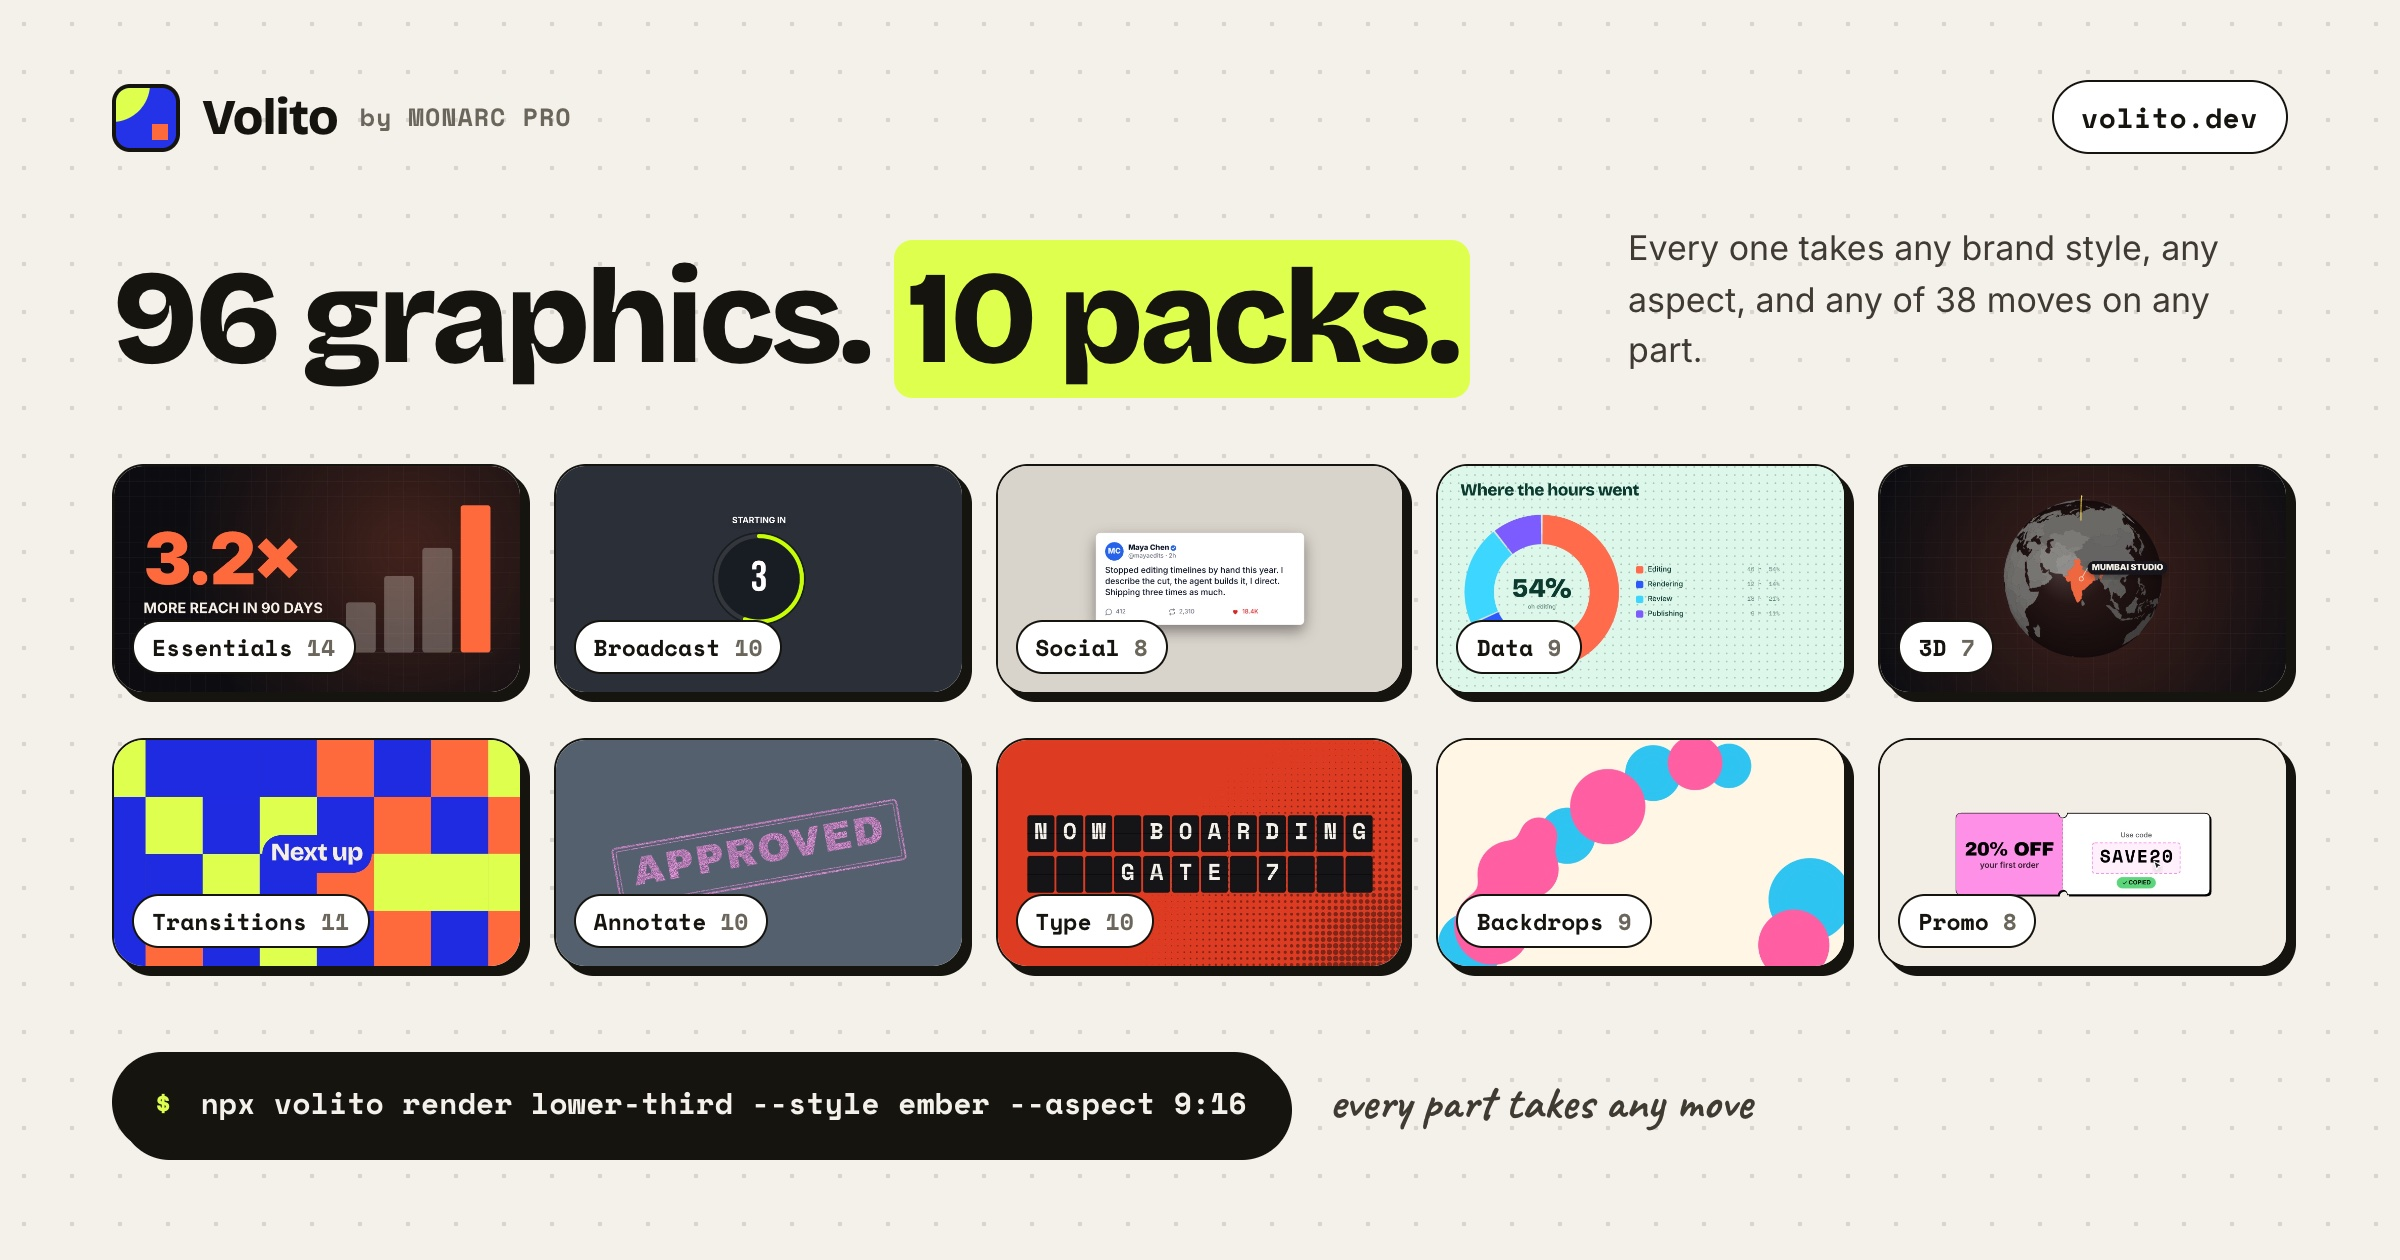
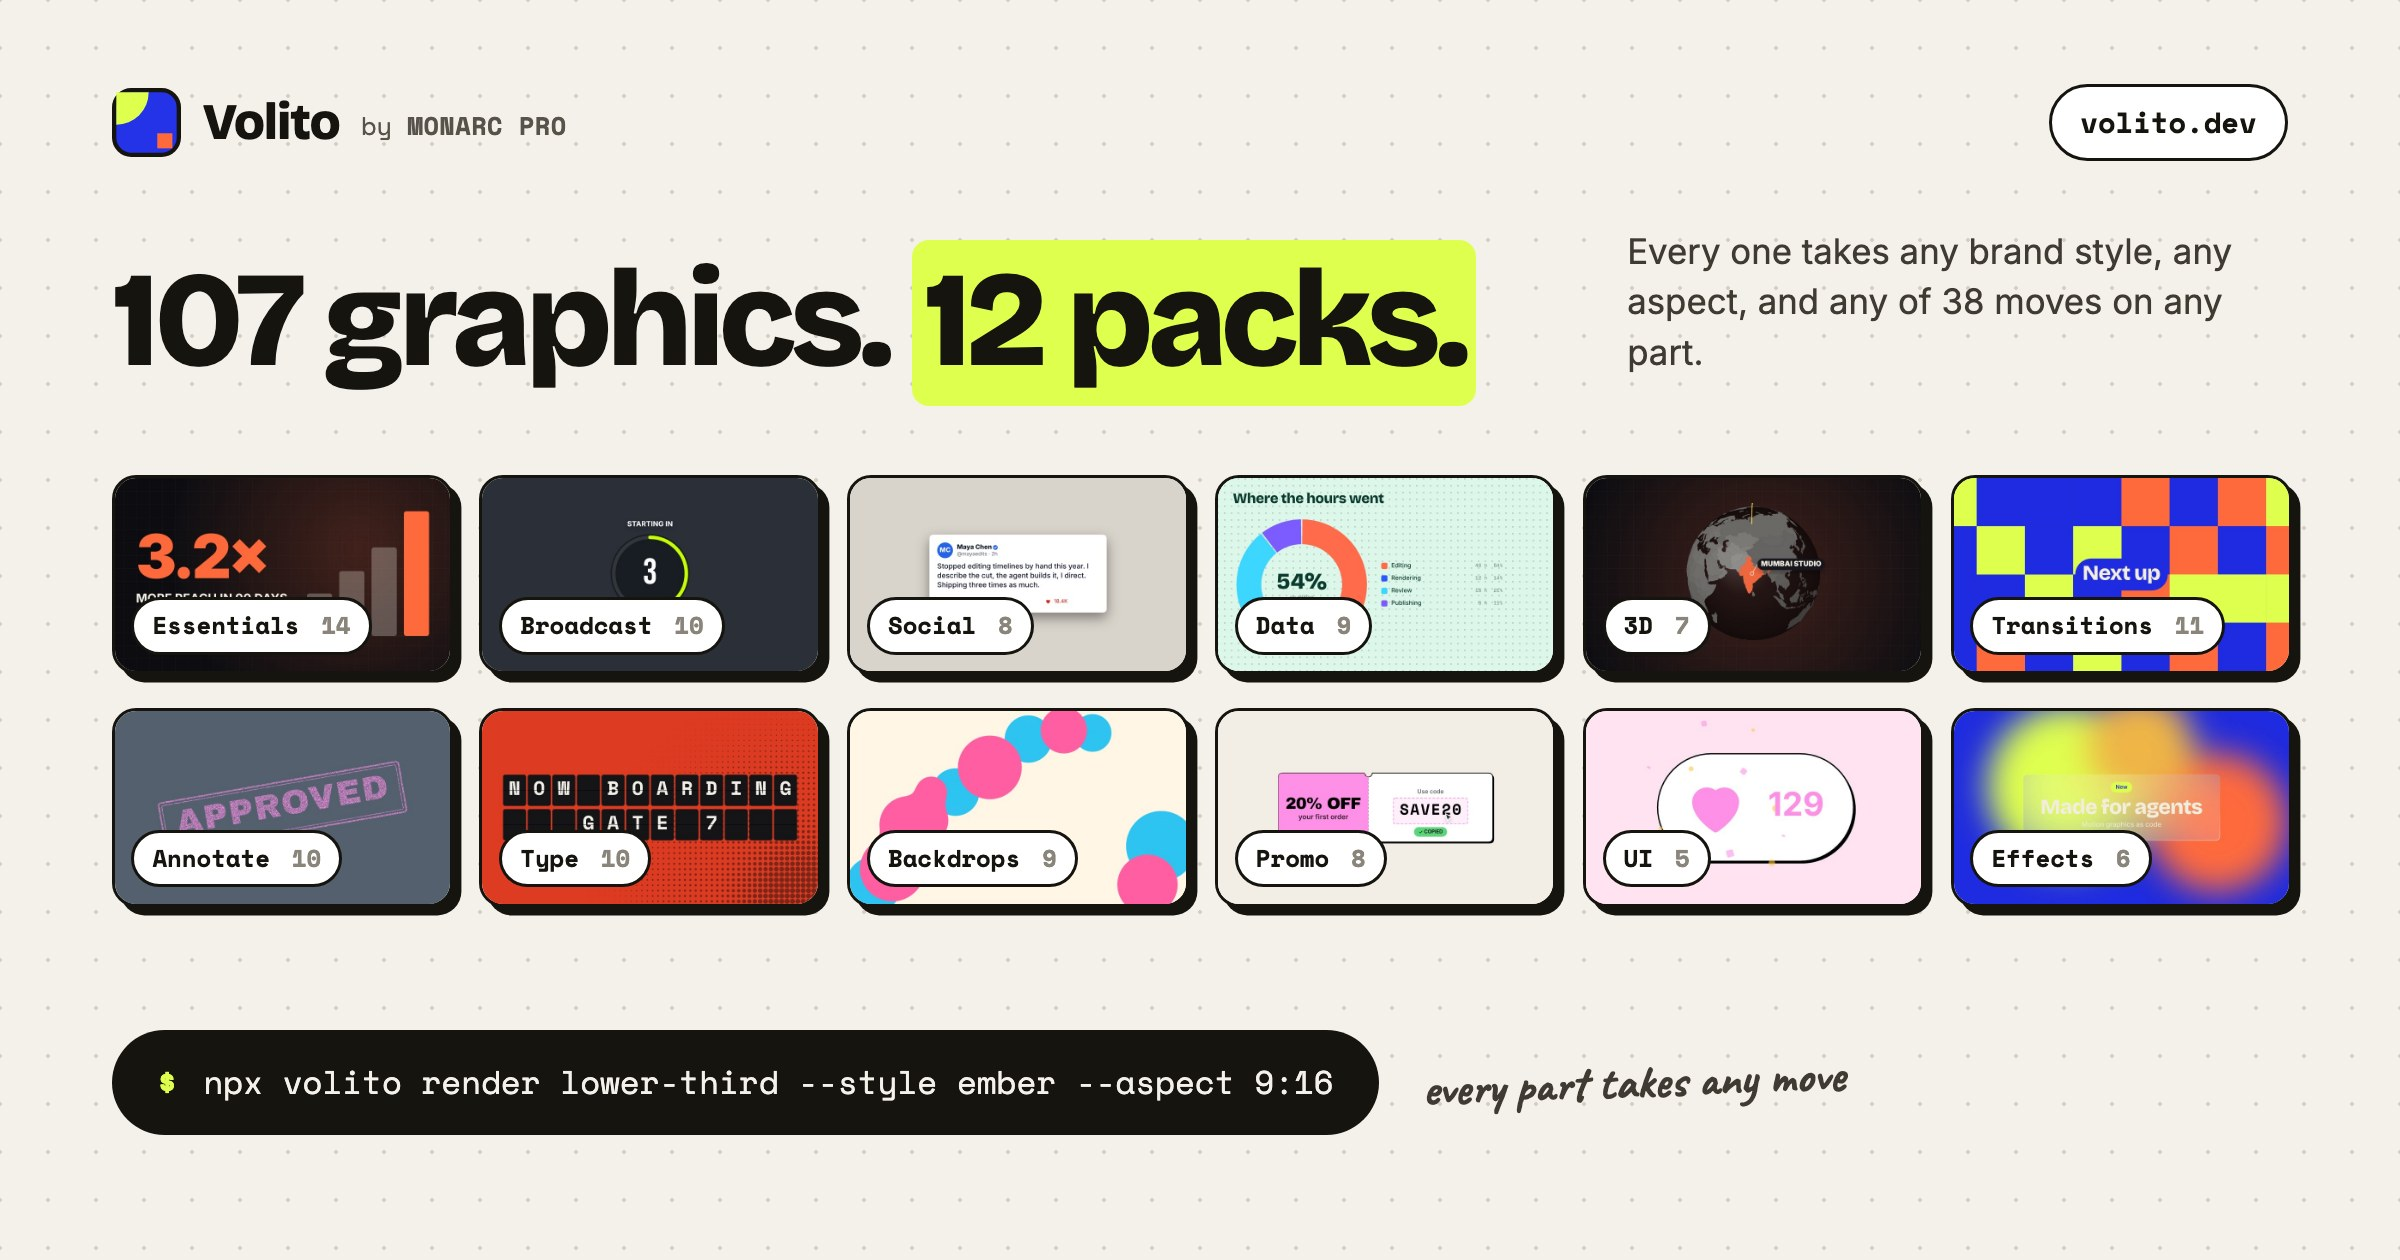
0.3.1: the MCP instructions name every pack, read from the library
They listed five of the twelve packs. Now every pack the server renders,
with its item count (extra --packs included), plus motion_review, specs and
motion_validate. README: which tools take item/code/spec, and the pack image
shows 107 graphics in 12 packs.

diff --git a/src/mcp.ts b/src/mcp.ts
@@ -114,9 +114,34 @@ const text = (t: string) => ({ content: [{ type: "text" as const, text: t }] });
 const failure = (err: unknown) => ({ isError: true, content: [{ type: "text" as const, text: String((err as Error)?.message ?? err) }] });
 const warnings = (w: string[]) => (w.length ? `\nWarnings:\n${w.map((x) => `- ${x}`).join("\n")}` : "");
 
+/**
+ * What the server tells an agent before its first call. The pack list is read from the library the
+ * server renders from, so it names every pack, extra ones from --packs or VOLITO_PACKS included.
+ */
+export function mcpInstructions(packs: { id: string; entries: unknown[] }[]): string {
+  const total = packs.reduce((n, p) => n + p.entries.length, 0);
+  return [
+    "Volito renders brand-aware motion graphics to video files with alpha: lower thirds, titles, kinetic type, charts and maps, 3D, transitions, annotations, backgrounds, promos, UI micro-interactions and filter effects.",
+    "Find one with motion_list, read its props and parts with motion_info, look at it with motion_preview (a contact sheet image), measure its timing and 9:16 safe zones with motion_review, then motion_render to a file.",
+    packs.length ? `${total} graphics in ${packs.length} packs: ${packs.map((p) => `${p.id} (${p.entries.length})`).join(", ")}; motion_list says what each one is.` : "",
+    "Motion is open-ended: any part takes any move, ease, idle, emphasis or keyframes (motion_moves lists them) through `motion`, and `mood` + `seed` give a new choreography for every seed.",
+    "The preview, still, check, review, render and sound tools take an `item`, your own `code`, or a Graphic spec (`spec`: a .json file with \"volito\": 1, or a .volito bundle) that keeps the whole recipe; motion_validate checks a spec before rendering.",
+    "To make something no item covers, write a program against motion_api (it includes 3D scenes and world maps) and use the same tools with `code`.",
+    "Every render can carry sound Volito synthesises itself (motion_render with sound: true, or motion_sound for the track alone): a program's own sound($) cues, else the right pops, whooshes, ticks and hits read from its motion.",
+  ]
+    .filter(Boolean)
+    .join(" ");
+}
+
 export function createMcpServer(opts: { packs?: string[] } = {}): McpServer {
   const lib = () => library(opts.packs ?? []);
-  const server = new McpServer({ name: "volito", version: packageVersion() }, { instructions: "Volito renders brand-aware motion graphics (lower thirds, titles, CTAs, stats, lists, end cards…) to video files with alpha. Find one with motion_list, read its props and parts with motion_info, look at it with motion_preview (a contact sheet image), then motion_render to a file. Motion is open-ended: any part takes any move, ease, idle, emphasis or keyframes (motion_moves lists them) through `motion`, and `mood` + `seed` give a new choreography for every seed. Packs: essentials, broadcast (lower thirds, tickers, score bugs), social (follow cards, notifications, chat), data (charts, maps, flight routes) and 3d (extruded logos and titles, card flips, globes). To make something no item covers, write a program against motion_api (it includes 3D scenes and world maps) and use the same tools with `code`. Every render can carry sound Volito synthesises itself (motion_render with sound: true, or motion_sound for the track alone): a program's own sound($) cues, else the right pops, whooshes, ticks and hits read from its motion." });
+  let packs: Library["packs"] = [];
+  try {
+    packs = lib().packs;
+  } catch {
+    // A broken extra pack still reports itself on the first call that loads the library.
+  }
+  const server = new McpServer({ name: "volito", version: packageVersion() }, { instructions: mcpInstructions(packs) });
 
   server.registerTool(
     "motion_list",

diff --git a/test/motion.test.ts b/test/motion.test.ts
@@ -299,6 +299,10 @@ describe("mcp", () => {
     await server.connect(a);
     const client = new Client({ name: "test", version: "1.0.0" });
     await client.connect(b);
+    const instructions = client.getInstructions() ?? "";
+    const packs = library().packs;
+    for (const p of packs) expect(instructions).toContain(`${p.id} (${p.entries.length})`);
+    expect(instructions).toContain(`${packs.reduce((n, p) => n + p.entries.length, 0)} graphics in ${packs.length} packs`);
     const tools = (await client.listTools()).tools.map((t) => t.name);
     expect(tools).toEqual(expect.arrayContaining(["motion_list", "motion_info", "motion_styles", "motion_preview", "motion_still", "motion_check", "motion_render", "motion_api"]));
     const list = await client.callTool({ name: "motion_list", arguments: { search: "subscribe" } });

diff --git a/README.md b/README.md
@@ -67,7 +67,7 @@ stills, contact sheets and PNG frames do not. WebM needs an ffmpeg built with li
 
 ## The packs
 
-<img src=".github/assets/packs.jpg" alt="96 graphics in 10 packs: a render from each of Essentials, Broadcast, Social, Data, 3D, Transitions, Annotate, Type, Backdrops and Promo" width="100%">
+<img src=".github/assets/packs.jpg" alt="107 graphics in 12 packs: a render from each of Essentials, Broadcast, Social, Data, 3D, Transitions, Annotate, Type, Backdrops, Promo, UI and Effects" width="100%">
 
 107 graphics in twelve packs. Every one takes any brand style and any aspect, and every part of it takes any move.
 
@@ -293,7 +293,7 @@ Cursor, Windsurf and other MCP clients:
 | `motion_review` | timing, 9:16 platform safe zones and a contact sheet per aspect, measured before rendering |
 | `motion_api` | the program API and the motion kit, for writing new graphics |
 
-Every tool takes an `item`, your own `code` or a `spec` file, plus `motion`, `mood`, `seed` and `speed`. A ready-made agent skill is in `skills/volito/SKILL.md` — `npx volito init` installs it for Claude Code, `npx skills add monarcpro/volito` for other agents, or copy it
+The preview, still, check, review, render and sound tools take an `item`, your own `code` or a `spec` file, plus `motion`, `mood`, `seed` and `speed`. A ready-made agent skill is in `skills/volito/SKILL.md` — `npx volito init` installs it for Claude Code, `npx skills add monarcpro/volito` for other agents, or copy it
 to `~/.claude/skills/volito/` for Claude Code.
 
 ## Node API

diff --git a/CHANGELOG.md b/CHANGELOG.md
@@ -1,5 +1,16 @@
 # Changelog
 
+## 0.3.1 — 2026-11-01
+
+- The MCP server's instructions, which an agent reads before its first call, named only five of the
+  twelve packs. They now list every pack the server can render with its item count, read from the
+  library (so packs added with `--packs` or `VOLITO_PACKS` are named too), and mention `motion_review`,
+  Graphic specs and `motion_validate`.
+- The README says which MCP tools take `item`, `code` or `spec` (the preview, still, check, review,
+  render and sound tools; not every tool), and its pack image shows all 107 graphics in 12 packs.
+- The MCP Registry listing (`io.github.monarcpro/volito`) is published by a GitHub Actions workflow
+  with GitHub OIDC once a version is on npm.
+
 ## 0.3.0 — 2026-11-01
 
 One-step agent setup, Graphic specs, a review before rendering, interactive states, and two new packs.
